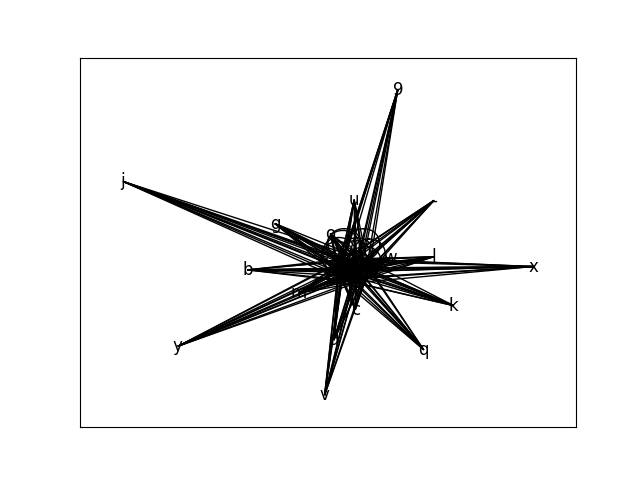
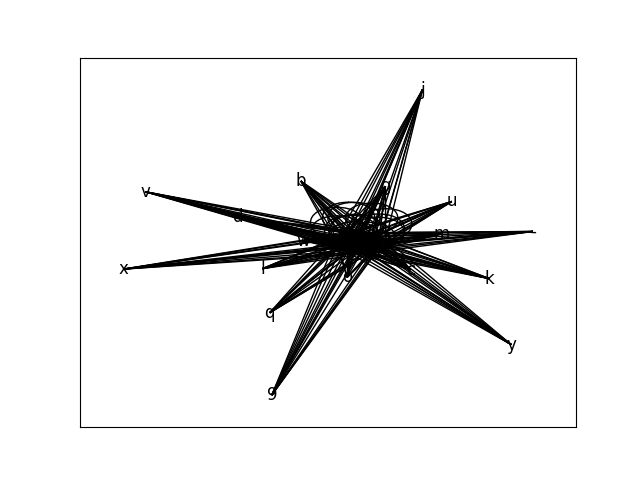
Correction du code

diff --git a/crawler/crawler_function.py b/crawler/crawler_function.py
@@ -7,13 +7,11 @@ def modify_graphe(list_urls, starting_index, graphique):
 
     url_request = list_urls[starting_index]
     result = robots.request_robots(url_request)
-    tokens_result = clean_function.clean_list(result)
-    tokens_request = clean_function.clean_url(url_request)
-    for list_token in tokens_result:
-        for token in list_token:
-            graphe_function.add_node(graphique, token)
-            for token_init in tokens_request:
-                graphe_function.add_edge(graphique, token_init, token)
+    url_list = clean_function.clean_list(result)
+    base_url = clean_function.clean_url(url_request)
+    for url in url_list:
+        graphe_function.add_node(graphique, url)
+        graphe_function.add_edge(graphique, base_url, url)
 
 
 

diff --git a/graphe/graphe_function.py b/graphe/graphe_function.py
@@ -4,7 +4,7 @@ def add_edge(graphe, depart, arrive):
         graphe[depart][arrive]["weight"] += 1
 
     else:
-        graphe.add_edge(depart, arrive, weight=1)
+        graphe.add_edge(depart, arrive, weight = 1)
 
 
 
